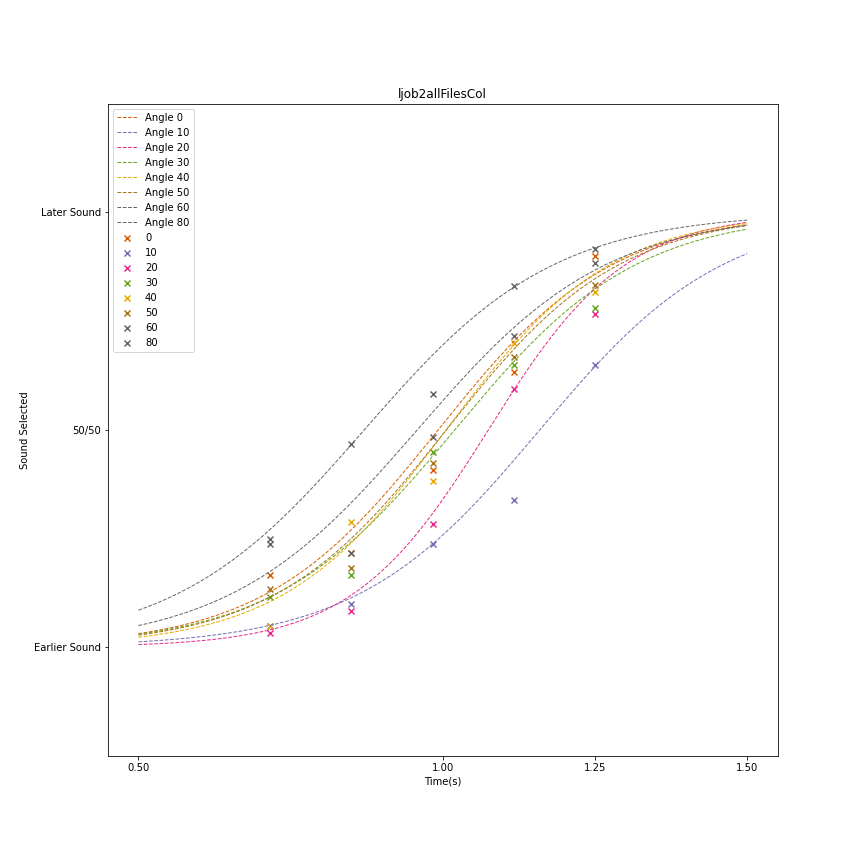
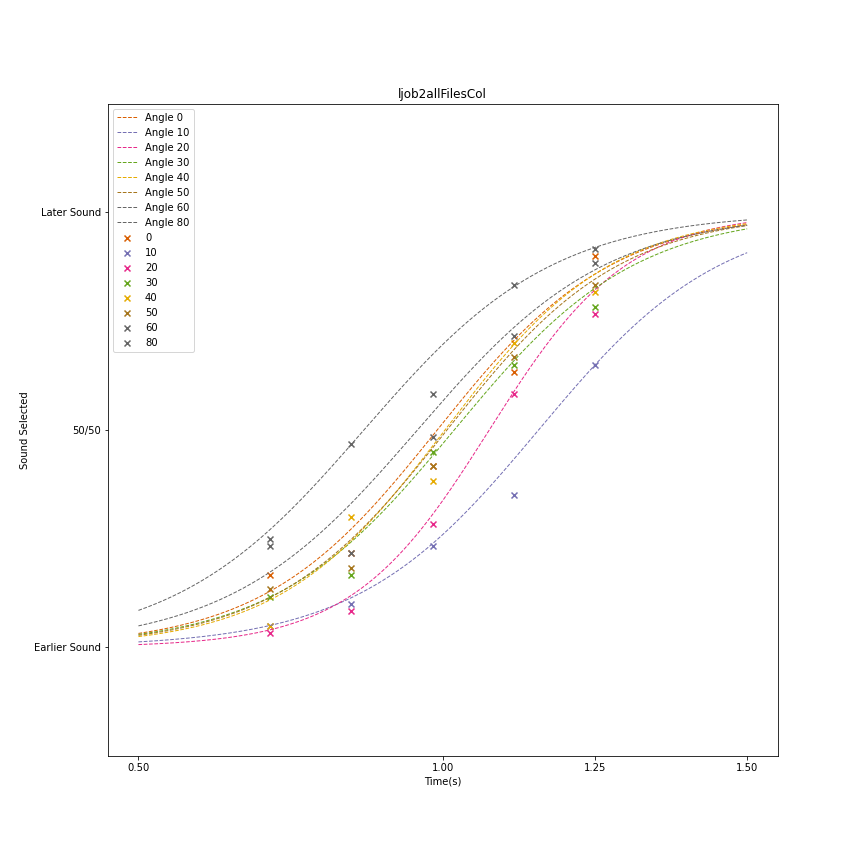
8

Changed region(s): [[0.4375, 0.25, 0.875, 0.5938], [0.3125, 0.5938, 0.4375, 0.6875], [0.1562, 0.6875, 0.3125, 0.75]]

diff --git a/xlCollator.py b/xlCollator.py
@@ -27,7 +27,7 @@ while i < indexI:
     baseName = fileList[i]
     dataEx = pd.read_excel(baseName)   
     
-    dataEx = dataEx[1:len(dataEx)-5]
+    dataEx = dataEx[0:len(dataEx)-5]
     #-5 to account for the metadata
     
     dataNew.append(dataEx)
